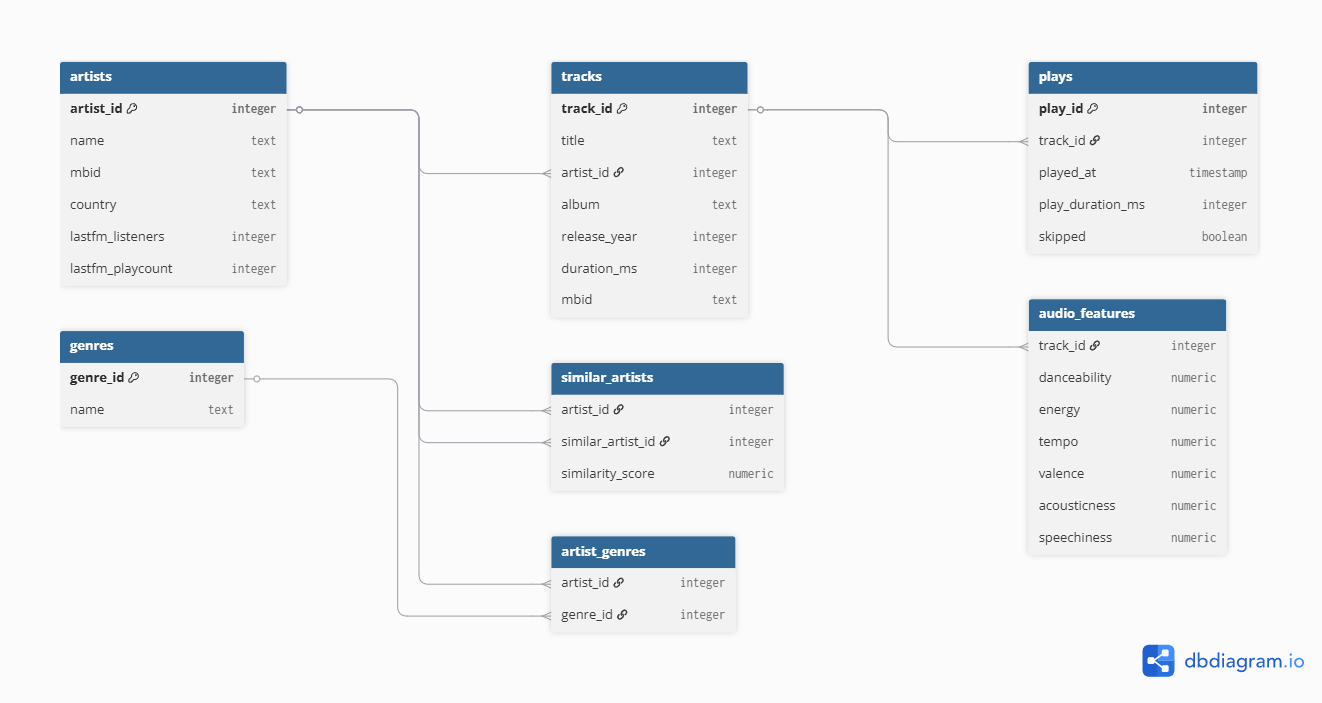
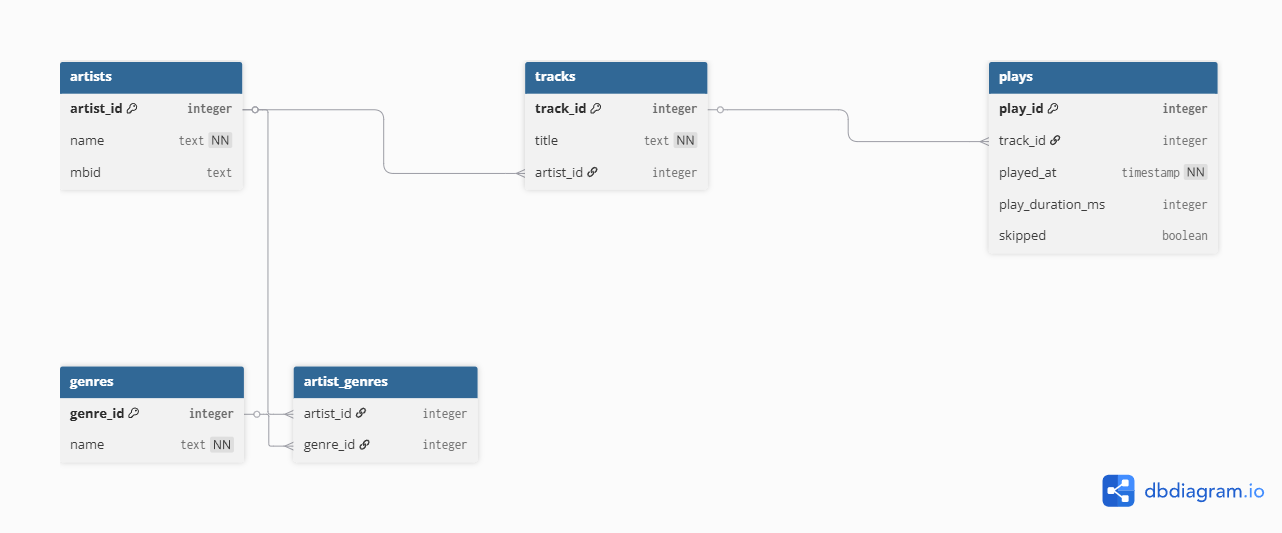
docs: add images for README

diff --git a/README.md b/README.md
@@ -20,7 +20,7 @@ To extract deeper insights, this project implements a data pipeline across a mul
 
 The ingestion layer normalizes flat file inputs into a clean, 3rd Normal Form (3NF) relational framework inside PostgreSQL to eliminate duplicate records and enforce absolute data integrity.
 
-![Schema Diagram](schema/schema_diagram_final.png)
+![Schema Diagram](schema/schema_diagram.png)
 
 ---
 
@@ -111,8 +111,8 @@ HAVING COUNT(*) > 30;
 
 ## Dashboard Preview
 
-![Streaming & Behavioral Insights](images/1_ Streaming & Behavioral Insights.png)
-![Taste Map](images/2_ Taste_Map.png)
+![Streaming & Behavioral Insights](images/1_Streaming & Behavioral Insights.png)
+![Taste Map](images/2_Taste_Map.png)
 
 ---
 